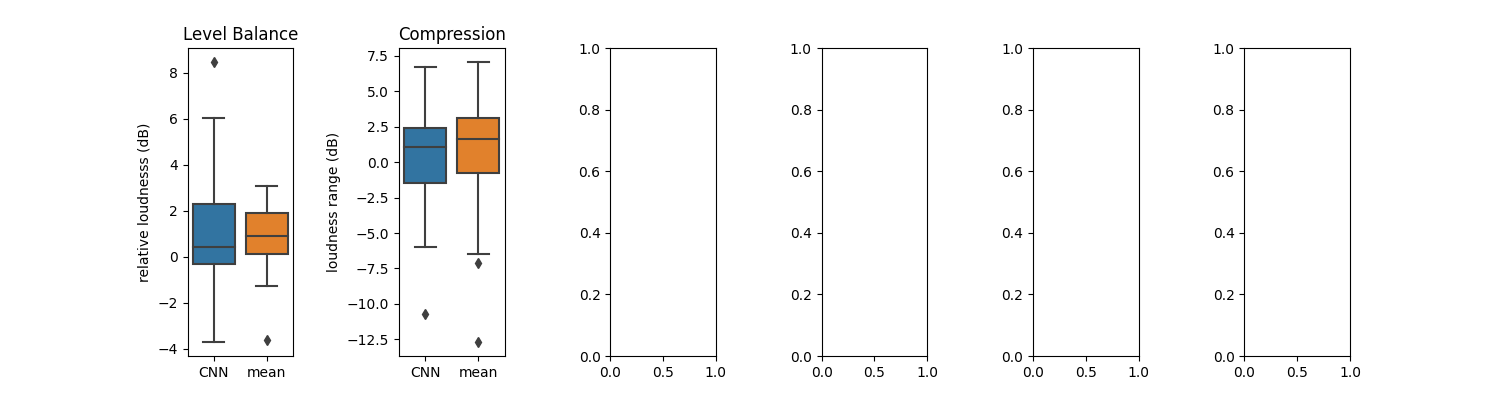
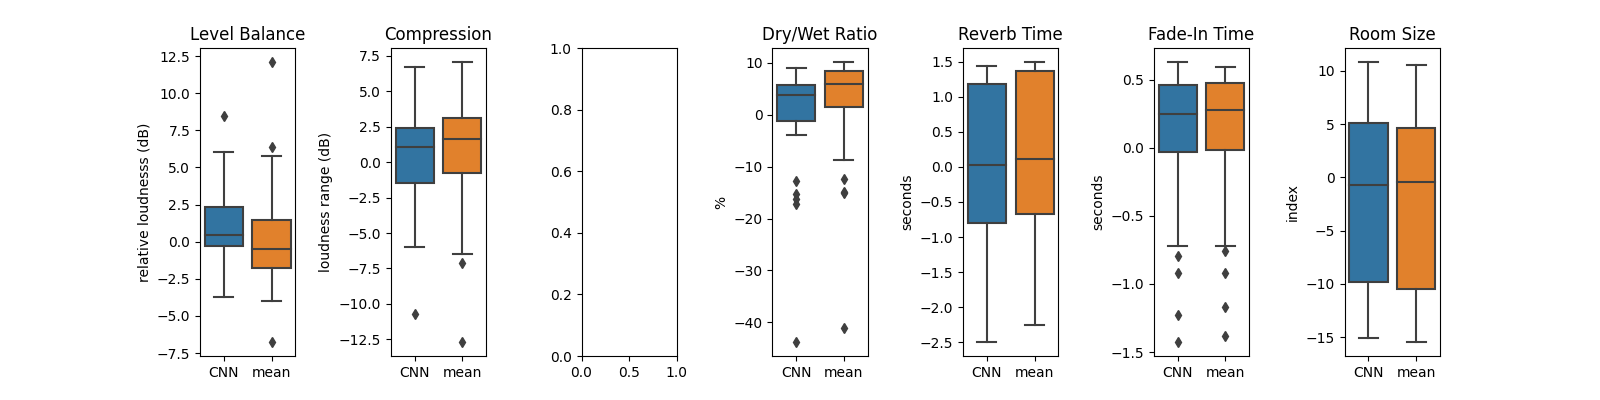
reverb error plot

diff --git a/src/scripts/eval/plot_error.py b/src/scripts/eval/plot_error.py
@@ -2,15 +2,34 @@ import json
 import seaborn as sns
 import pandas as pd
 import matplotlib.pyplot as plt
+import numpy as np
 
 
 
-fig, axes = plt.subplots(1, 6, figsize=(15, 4))
+fig, axes = plt.subplots(1, 7, figsize=(16, 4))
 
 fig.subplots_adjust(hspace=0.125, wspace=1)
 
 
 #######################
+
+model_error_path = "/home/kli421/dir1/Lab_spring2022/results/final/level/error/relative_loudness_error_list.json"
+mean_error_path = "/home/kli421/dir1/Lab_spring2022/results/final/level/error/relative_loudness_mean_error_list.json"
+
+f = open(model_error_path)
+data = json.load(f)
+df = pd.DataFrame(data, columns = ['CNN'])
+
+f = open(mean_error_path)
+data = json.load(f)
+df["mean"] = data
+
+
+sns.boxplot(ax=axes[0], data=df).set(xlabel='',  ylabel='relative loudnesss (dB)')
+axes[0].set_title("Level Balance")
+
+
+######################
 
 model_error_path = "/home/kli421/dir1/Lab_spring2022/results/final/compression/error/loudness_range_error_list.json"
 mean_error_path = "/home/kli421/dir1/Lab_spring2022/results/final/compression/error/loudness_range_mean_error_list.json"
@@ -27,23 +46,77 @@ df["mean"] = data
 sns.boxplot(ax=axes[1], data=df).set(xlabel='',  ylabel='loudness range (dB)')
 axes[1].set_title("Compression")
 
+
+
 #######################
 
-model_error_path = "/home/kli421/dir1/Lab_spring2022/results/final/level/error/relative_loudness_error_list.json"
-mean_error_path = "/home/kli421/dir1/Lab_spring2022/results/final/level/error/relative_loudness_mean_error_list.json"
+
+
+
+
+
+#######################
+
+model_error_path = "/home/kli421/dir1/Lab_spring2022/results/final/reverb/error/reverb_error_df.json"
+mean_error_path = "/home/kli421/dir1/Lab_spring2022/results/final/reverb/error/reverb_mean_error_df.json"
 
 f = open(model_error_path)
 data = json.load(f)
-df = pd.DataFrame(data, columns = ['CNN'])
+model_df = pd.DataFrame(data)
 
 f = open(mean_error_path)
 data = json.load(f)
-df["mean"] = data
-
-sns.boxplot(ax=axes[0], data=df).set(xlabel='',  ylabel='relative loudnesss (dB)')
-axes[0].set_title("Level Balance")
+mean_df = pd.DataFrame(data)
 
 
+"""
+print(model_df.columns)
+
+Index(['room_size', 'reverberation_time_s', 'lows_cutoff_frequency_hz',
+       'lows_q_factor', 'lows_gain_db_s', 'highs_cutoff_frequency_hz',
+       'highs_q_factor', 'highs_gain_db_s', 'fade_in_time_s', 'dry_wet'],
+      dtype='object')
+"""
+
+#######
+
+dry_wet_df = pd.DataFrame()
+dry_wet_df['CNN'] = np.array(model_df["dry_wet"].values.tolist()) * 100.
+dry_wet_df['mean'] = np.array(mean_df["dry_wet"].values.tolist()) * 100.
+
+
+
+sns.boxplot(ax=axes[3], data=dry_wet_df).set(xlabel='',  ylabel='%')
+axes[3].set_title("Dry/Wet Ratio")
+
+
+#######
+
+RT_df = pd.DataFrame()
+RT_df['CNN'] = model_df["reverberation_time_s"].values.tolist()
+RT_df['mean'] = mean_df["reverberation_time_s"].values.tolist()
+
+sns.boxplot(ax=axes[4], data=RT_df).set(xlabel='',  ylabel='seconds')
+axes[4].set_title("Reverb Time")
+
+
+#######
+
+FT_df = pd.DataFrame()
+FT_df['CNN'] = model_df["fade_in_time_s"].values.tolist()
+FT_df['mean'] = mean_df["fade_in_time_s"].values.tolist()
+
+sns.boxplot(ax=axes[5], data=FT_df).set(xlabel='',  ylabel='seconds')
+axes[5].set_title("Fade-In Time")
+
+#######
+
+room_size_df = pd.DataFrame()
+room_size_df['CNN'] = model_df["room_size"].values.tolist()
+room_size_df['mean'] = mean_df["room_size"].values.tolist()
+
+sns.boxplot(ax=axes[6], data=room_size_df).set(xlabel='',  ylabel='index')
+axes[6].set_title("Room Size")
 
 
 

diff --git a/results/final/reverb/eval/reverb_net_song_level.py b/results/final/reverb/eval/reverb_net_song_level.py
@@ -5,6 +5,7 @@ import numpy as np
 #from tqdm import tqdm
 import matplotlib.pyplot as plt
 import pandas as pd
+import json
 
 
 ###############################################################################
@@ -161,6 +162,8 @@ def eval_song_level(checkpoint, model_class, device, test_folder):
                       ]
 
   test_indie_error_df = pd.DataFrame(columns=param_label_list)
+  error_df = pd.DataFrame(columns=param_label_list)
+  mean_error_df = pd.DataFrame(columns=param_label_list)
 
   #load data of each song
   for file in os.listdir(test_folder):
@@ -203,7 +206,19 @@ def eval_song_level(checkpoint, model_class, device, test_folder):
             pred_arr /= counter
             print(pred_arr)
             abs_error = np.abs(pred_arr - test_target[0].detach().cpu().numpy())
+            error = pred_arr - test_target[0].detach().cpu().numpy()
+
+            
+
             test_indie_error_df.loc[file] = abs_error
+            error_df.loc[file] = error
+            
+
+            test_pred = np.array([14.546935, 1.5948825, 101.77251, 0.5270046, -2.1335206, 11858.535,
+                  0.7714809, -16.023586, 0.6773426, 0.11475082])
+            maen_error = test_pred - test_target[0].detach().cpu().numpy()
+            mean_error_df.loc[file] = maen_error
+
           
 
 
@@ -211,6 +226,15 @@ def eval_song_level(checkpoint, model_class, device, test_folder):
   abs_error_mean = test_indie_error_df.mean(axis=0)
 
   print("abs_error over 48 test songs", abs_error_mean)
+
+
+  json_object = json.dumps(mean_error_df.to_dict())
+  with open("reverb_mean_error_df.json", "w") as outfile:
+    outfile.write(json_object)
+
+  json_object = json.dumps(error_df.to_dict())
+  with open("reverb_error_df.json", "w") as outfile:
+    outfile.write(json_object)
 
 
 

diff --git a/results/final/level/eval/fader_net_song_level.py b/results/final/level/eval/fader_net_song_level.py
@@ -139,7 +139,7 @@ def eval_song_level(checkpoint, model_class, device, test_folder):
 
             abs_error = np.abs(test_pred_mean - test_target_mean)
             error = test_pred_mean - test_target_mean
-            mean_error = test_pred_mean - (-2.7)
+            mean_error = -2.7 - test_target_mean
 
             print("test_pred_mean:   ", test_pred_mean)
             print("test_target_mean: ", test_target_mean)
